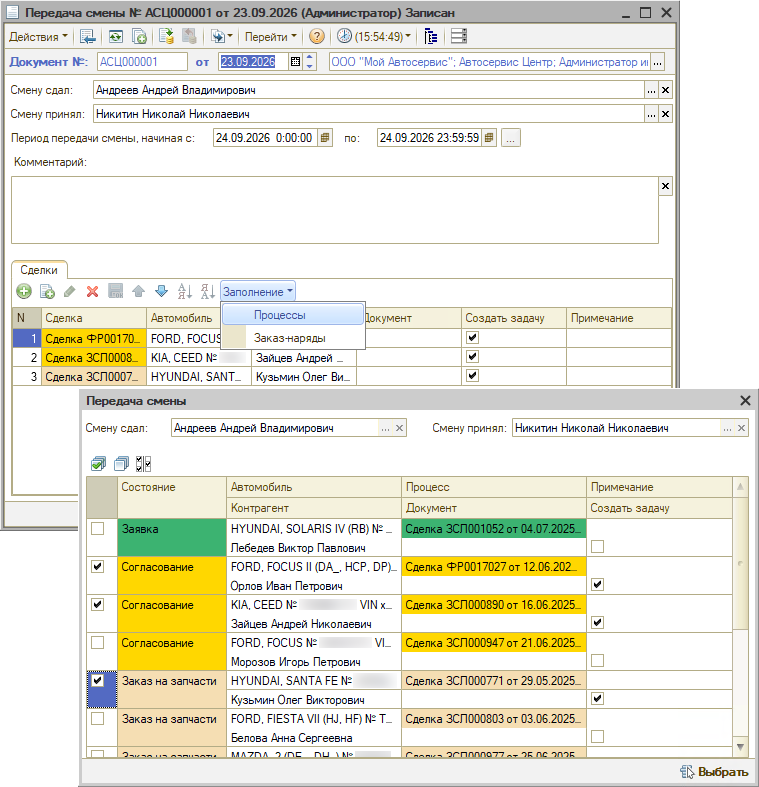
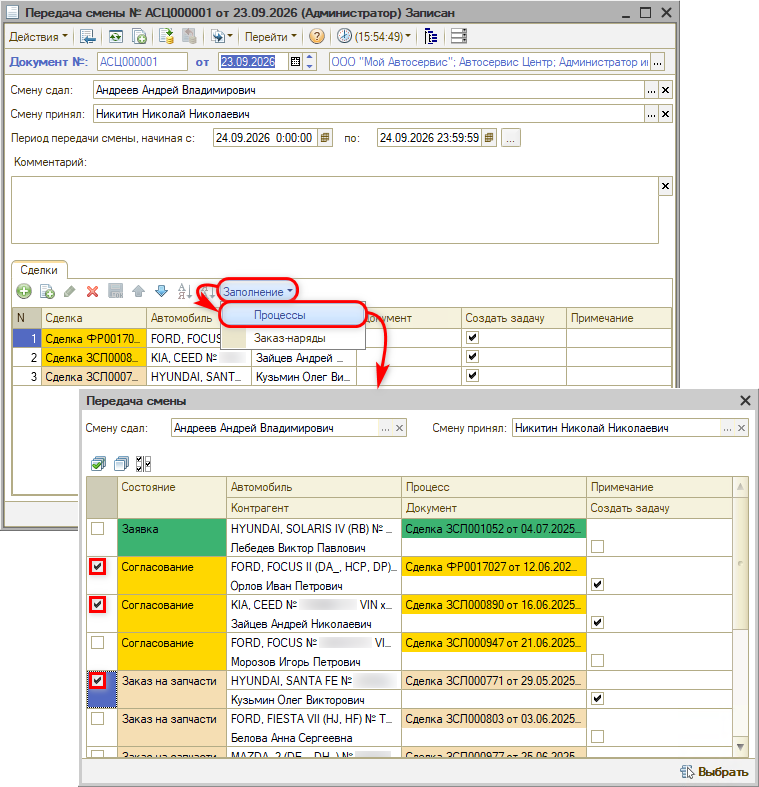
Как мастеру-консультанту видеть сделки сменщика: скрины 01–03 с обводками Кати, журнал с отбором по организации и подразделению; фраза о поле «Период передачи смены» убрана до уточнения (Катя, 23.09.2026).

Changed region(s): [[0.2424, 0.3355, 0.5152, 0.4879], [0.1212, 0.7014, 0.1515, 0.7929], [0.0909, 0.8539, 0.1515, 0.8844]]

diff --git a/tips/5S AUTO/Автосервис/Как мастеру-консультанту видеть сделки сменщика/kak-masteru-konsultantu-videt-sdelki-smenshchika.md b/tips/5S AUTO/Автосервис/Как мастеру-консультанту видеть сделки сменщика/kak-masteru-konsultantu-videt-sdelki-smenshchika.md
@@ -13,7 +13,7 @@
 Чтобы сменщик продолжил работу по сделкам и заказ-нарядам мастера-консультанта, передайте их документом «Передача смены»:
 
 1. Откройте журнал передачи смен: **Автосервис → Приемка → Документы → Журналы передачи смен** или **CRM → Документы → Журнал передачи смен**.
-2. Нажмите «Добавить». В поле «Смену сдал» выберите мастера-консультанта, который передает смену, в поле «Смену принял» – сменщика. В поле «Период передачи смены, начиная с … по» укажите период, за который нужно передать сделки и задачи.
+2. Нажмите «Добавить». В поле «Смену сдал» выберите мастера-консультанта, который передает смену, в поле «Смену принял» – сменщика.
 
    ![Передача смены – поля «Смену сдал» и «Смену принял»](attachments/01-sozdanie-peredachi-smeny.png)
 
